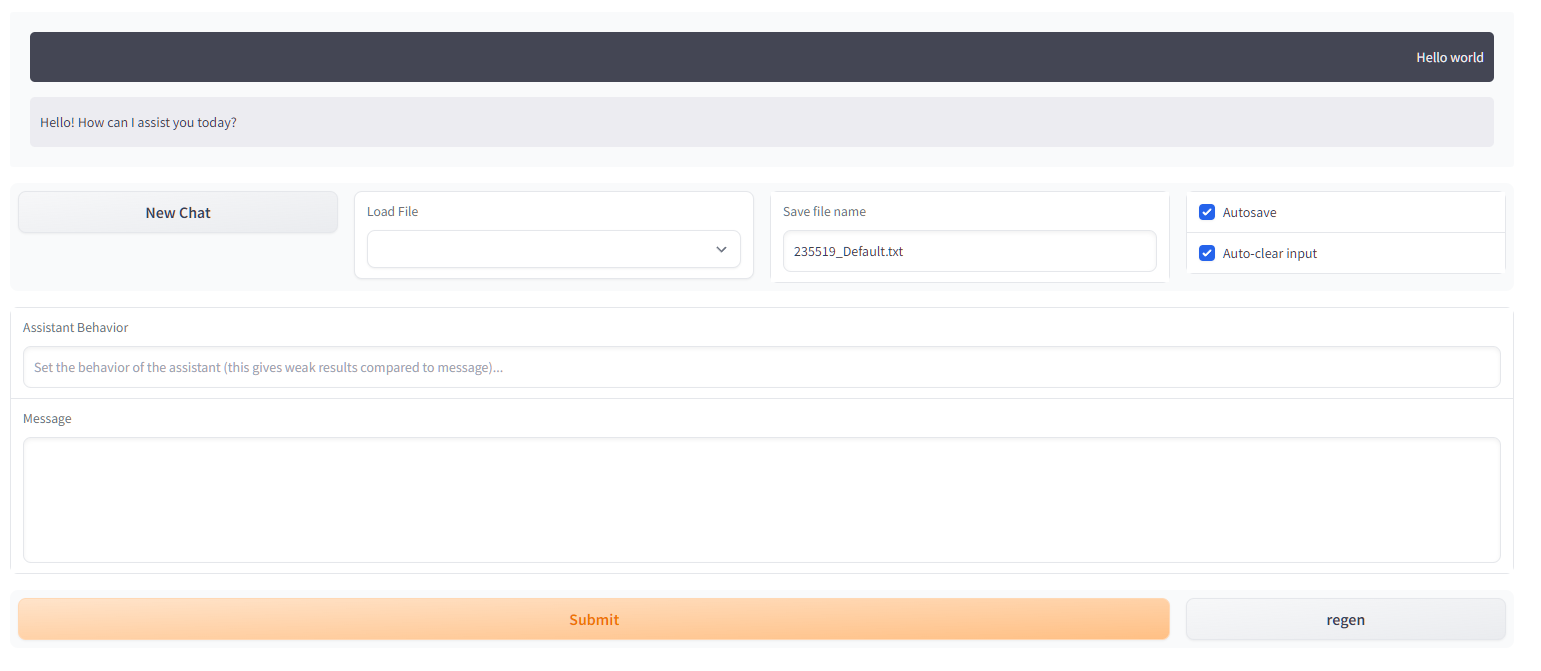
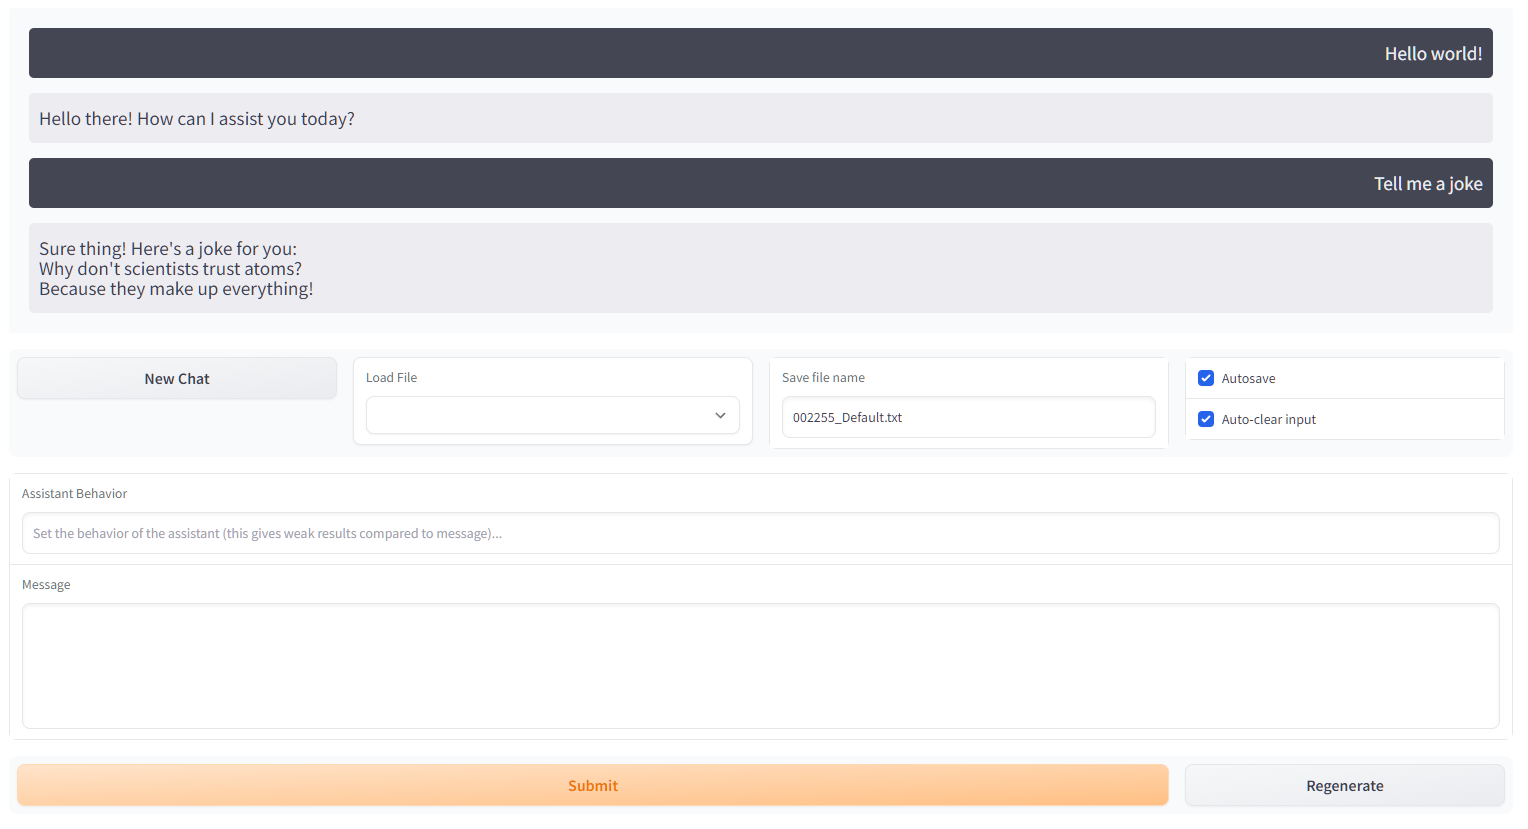
Small UI updates and styling changes

diff --git a/simple-chat.py b/simple-chat.py
@@ -109,7 +109,7 @@ css = ".assistant {background-color:rgba(236,236,241,var(--tw-text-opacity))}"
 css += ".user {background-color: rgba(68,70,84,var(--tw-bg-opacity)); text-align:right; color: rgba(236,236,241,var(--tw-text-opacity));}"
 css += ".user,.assistant {padding: 15px 10px 15px 10px; margin:15px; border-radius: 5px;}"
 css += "code {background-color: black; color: white; margin: 15px 10px 15px 10px; padding: 10px; display: inline-block;}"
-css += ".chat_container {background-color:rgb(249 250 251 / var(--tw-bg-opacity)); padding: 5px; border-radius: 3px; min-height:100px;}"
+css += ".chat_container {background-color:rgb(249 250 251 / var(--tw-bg-opacity)); padding: 5px; border-radius: 3px; min-height:100px; font-size:1.2rem;}"
 
 with gr.Blocks(css=css) as demo: 
     output = gr.HTML(value=format_message_data)
@@ -130,7 +130,7 @@ with gr.Blocks(css=css) as demo:
         with gr.Column(scale=30):
             submit = gr.Button("Submit", variant='primary')
         with gr.Column(scale=1):
-            regenerate = gr.Button(value="regen")
+            regenerate = gr.Button(value="Regenerate")
     
     #Bindings
     submit.click(fn=chat, inputs=[context, content, file_name, autosave, autoclear], outputs = [output, content])
@@ -139,4 +139,3 @@ with gr.Blocks(css=css) as demo:
     file_dropdown.change(fn=load_save_file, inputs=file_dropdown, outputs=[output, context, file_name, file_dropdown])
     webbrowser.open("http://localhost:7860/")
 demo.launch()
-
